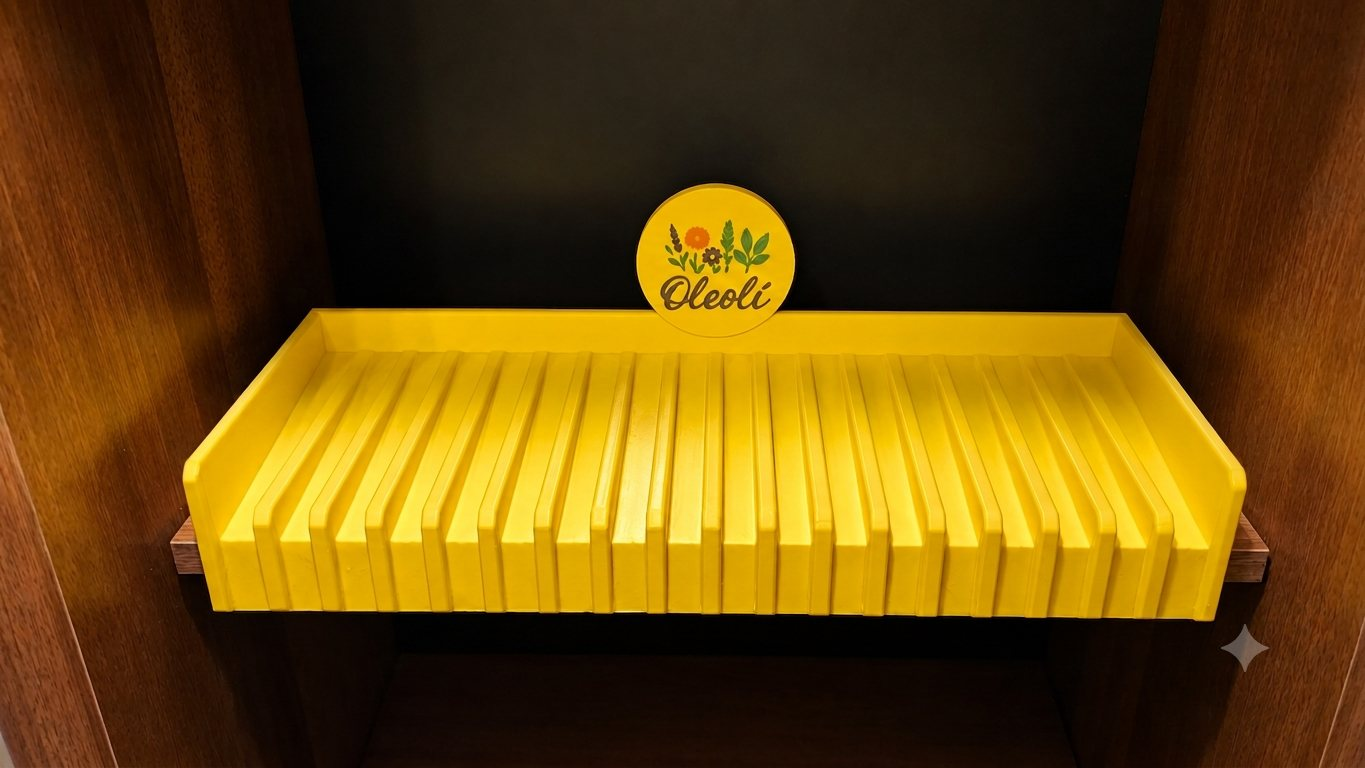
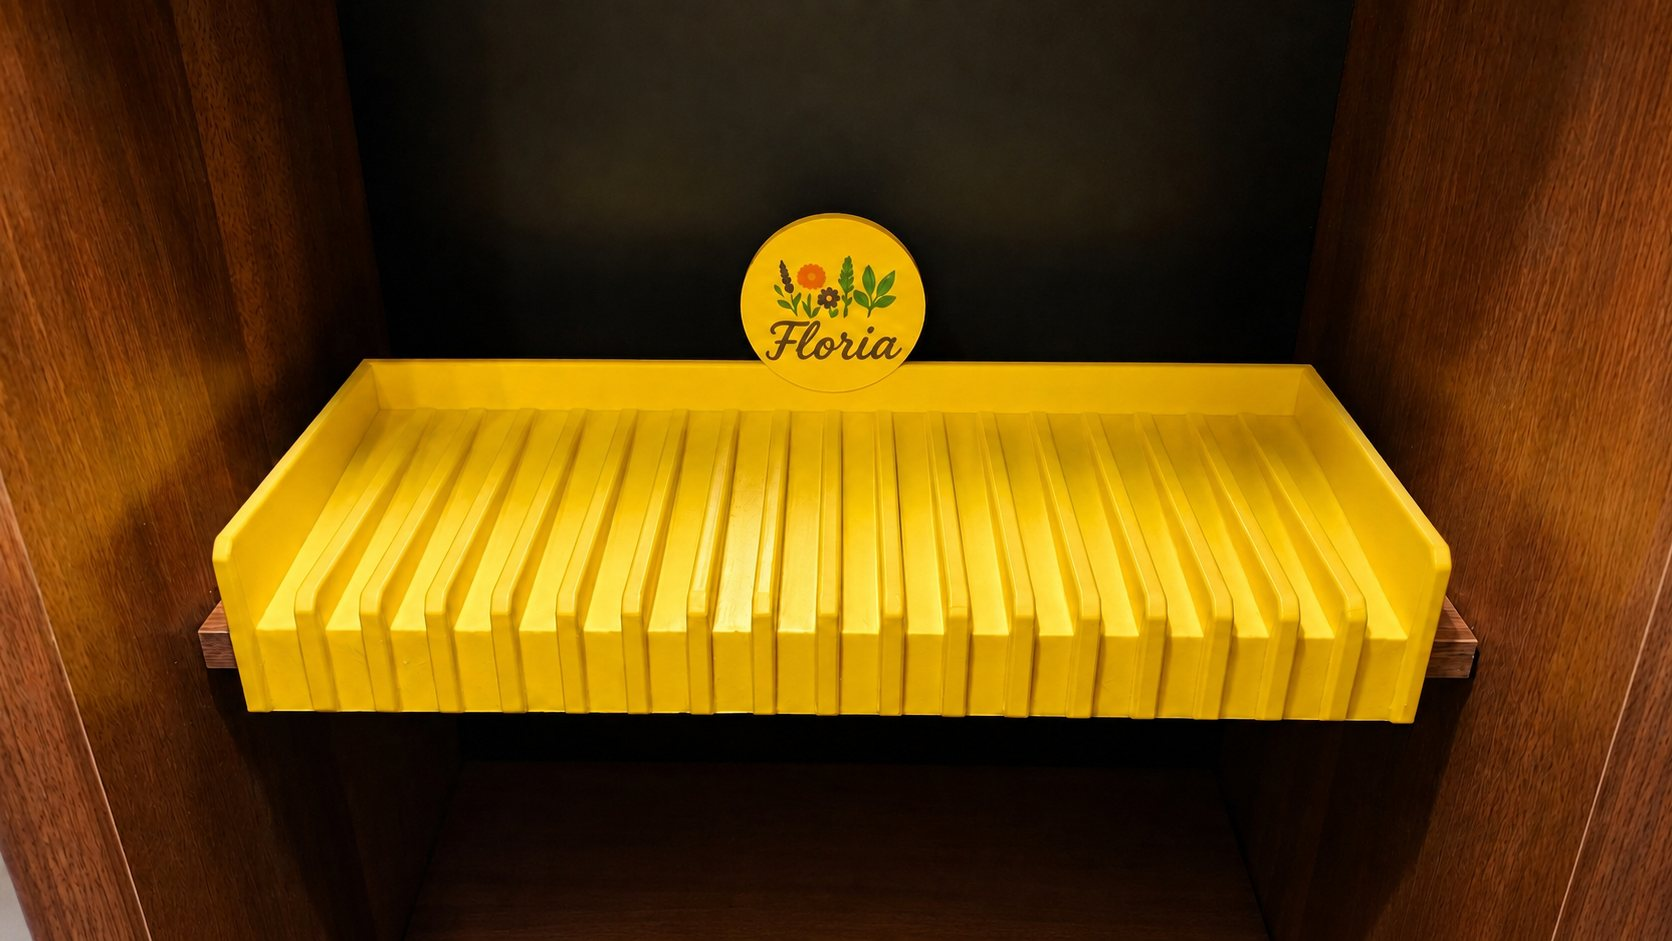
Round-trip 6: marchio sostituito su richiesta del committente
Il committente ha ritirato l'autorizzazione: le immagini pubblicate ora
usano il marchio fittizio del set FLORIA. Didascalie riscritte per non
affermare che sia stato stampato un pezzo con quel marchio (si parla di
'medaglione') e nota esplicita sotto la galleria. Render CAD convertiti
in JPEG (da 1,6 MB a ~180 KB l'uno). ADR-013.

diff --git a/docs/architecture.md b/docs/architecture.md
@@ -191,3 +191,26 @@ della fotocamera, rifare le foto, sostituire con i render Fusion puliti, oppure
 etichettare le immagini come ritoccate. **Non** rimuovere i marcatori: sono
 firmati, SynthID resta comunque nei pixel, e togliere la dichiarazione su un
 portfolio che vende trasparenza di processo è controproducente.
+
+## ADR-013 — Marchio sostituito su richiesta del committente (2026-08-11)
+
+**Contesto:** il committente ha **ritirato l'autorizzazione** a comparire e ha
+chiesto di rimuovere il proprio marchio dalle immagini del case study.
+
+**Decisione:** le immagini pubblicate usano un marchio fittizio ("Floria") al
+posto di quello reale, ottenuto sostituendo la scritta sul medaglione. Il set
+sorgente è `SynologyDrive\DISEGNO 3D\Social\Pj1_Portaspugna\Immagini\FLORIA`;
+la cartella `OLEOLì` (marchio reale) **non va pubblicata**.
+
+**Vincoli applicati per non affermare il falso:**
+
+- nessuna didascalia dice che è stato stampato un pezzo con quel marchio: si
+  parla di "medaglione", mai del nome fittizio;
+- la pagina porta una nota esplicita sotto la galleria — *"Il marchio visibile
+  nelle immagini è sostituito con uno fittizio: il committente ha chiesto di
+  non essere identificato"* — così il lettore sa cosa sta guardando;
+- il titolo era già anonimo (ADR-011) e nel testo non compare alcun cliente.
+
+**Nota:** i file della cartella `OLEOLì` hanno i Content Credentials rimossi ma
+conservano il watermark ✦ visibile. Rimuovere i marcatori non rende
+un'immagine non-AI: la dichiarazione va fatta nel testo, come sopra.
